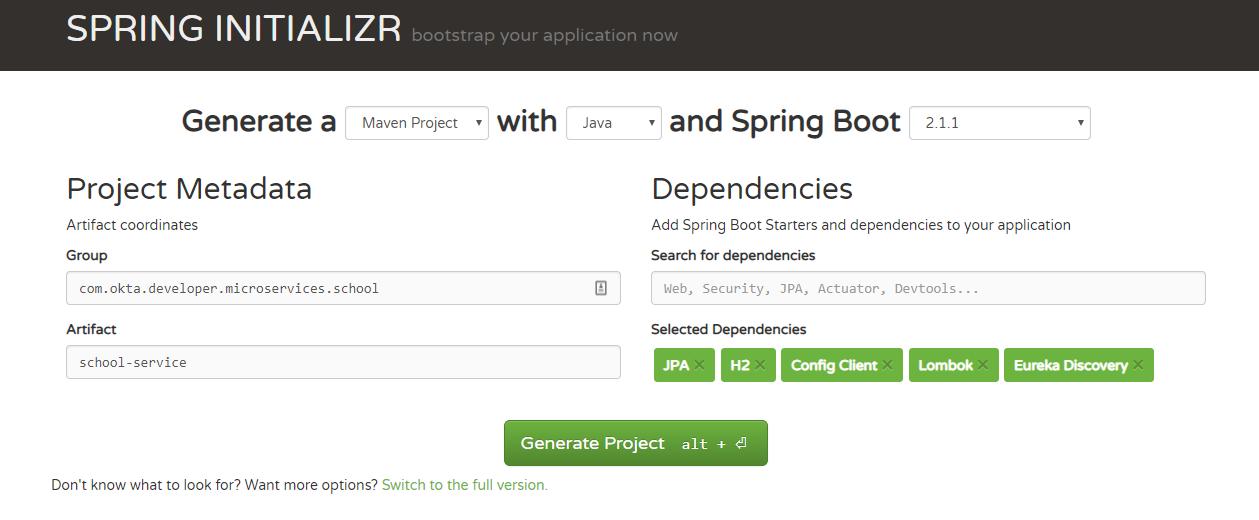
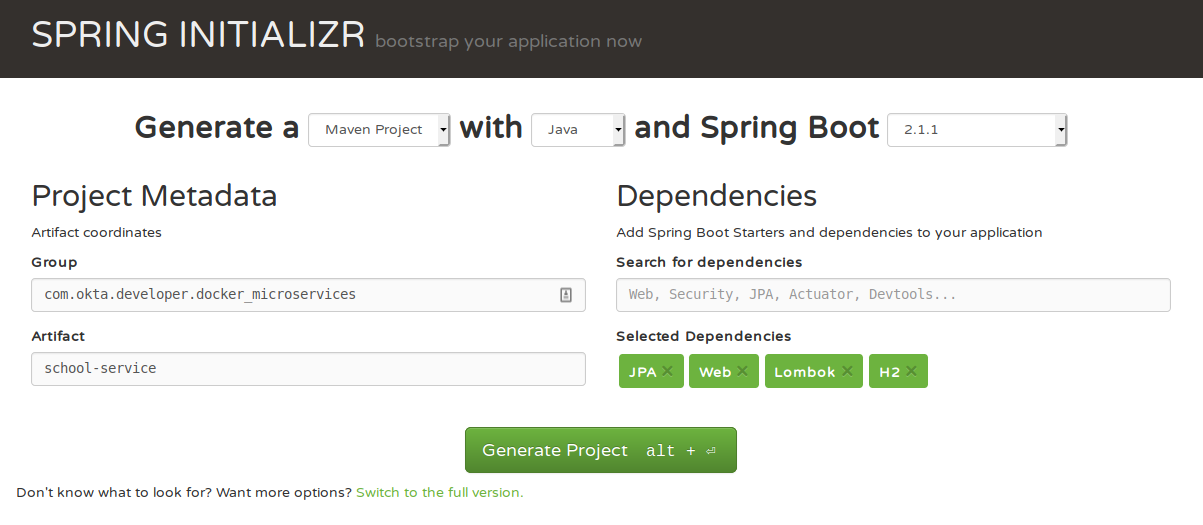
Discovery server description

diff --git a/content/blog/build-spring-microservices-with-docker.md b/content/blog/build-spring-microservices-with-docker.md
@@ -37,24 +37,19 @@ Nowadays, after the hype, it is a common sense you should [avoid Microservice ar
 
 ## The tutorial
 
-The tutorial of this article is a little bit different then previous one. The article does not starts with an empty folder, but with two projects: one service (_school-service_) provides persistent layer and business logic. The other project (_school-ui_) provides the graphical user interface. Both naturally connects with minor configuration.
+This tutorial starts with two projects: one service (_school-service_) provides persistent layer and business logic. The other project (_school-ui_) provides the graphical user interface. Both naturally connects with minor configuration.
 
-After credentials, discovery and configuration services will be presented and discussed. Both 
-services are an essential part for any heavily distributed architecture. To prove our point, we will integrate it with Oauth2 and use the configuration project to set the Oauth2 keys.
+After initial setup, discovery and configuration services will be presented and discussed. Both services are an essential part for any heavily distributed architecture. To prove our point, we will integrate it with Oauth2 and use the configuration project to set the Oauth2 keys.
 
 Finally, each project will be transformed into a Docker image. Docker compose will be used to simulate a _container orchestrator_ as every container will be managed by compose with an internal network between the services.
 
 Lastly, Spring profiles will be introduced to properly change configuration based on the environment currently assigned. That way, we will have two Oauth2 environments: one for development, and other for production.
 
-Less words, more code! Clone the tutorial's **repository** and go to the branch `startup`.
+Less words, more code! Clone the tutorial's **repository** and go to the branch `start`.
 
 ```bash
-> git clone -b startup XXXX 
+> git clone -b start XXXX 
 ```
-
-The project has the following file structure:
-
-**PUT HERE THE FOLDER STRUCTURE**
 
 The root `pom.xml` file is not a requirement. It is here to help to manage multiple projects at once. Let's look inside:
 
@@ -62,45 +57,119 @@ The root `pom.xml` file is not a requirement. It is here to help to manage multi
 <?xml version="1.0" encoding="UTF-8"?>
 <project xmlns="http://maven.apache.org/POM/4.0.0" xmlns:xsi="http://www.w3.org/2001/XMLSchema-instance"
 	xsi:schemaLocation="http://maven.apache.org/POM/4.0.0 http://maven.apache.org/xsd/maven-4.0.0.xsd">
-    <modelVersion>4.0.0</modelVersion>
-
-    <groupId>com.okta.dockermicroservices</groupId>
-    <artifactId>parent-pom</artifactId>
-    <version>0.0.1-SNAPSHOT</version>
-    <packaging>pom</packaging>
-    name>parent-project</name>
-    <modules>
-        <module>school-service</module>
-        <module>school-ui</module>	
-    </modules>
+	<modelVersion>4.0.0</modelVersion>
+	<groupId>com.okta.developer.docker_microservices</groupId>
+	<artifactId>parent-pom</artifactId>
+	<version>0.0.1-SNAPSHOT</version>
+	<packaging>pom</packaging>
+	<name>parent-project</name>
+	<modules>
+		<module>school-service</module>
+		<module>school-ui</module>	
+	</modules>
 </project>
+
 ```
 
-It is called _Aggregate Project_ (CONFERIR) and is useful to apply the same command to all declared modules. The modules does not need to use the root module as parent.
+It is called _Aggregate Project_ and is useful to apply the same command to all declared modules. The modules does not need to use the root module as parent.
+
+Next, check the two modules available:
 
 ## School-Service
 
-`School-Service` is a Spring boot project that acts as the persistence layer and business rules of the project. In a more complex scenario, it would have more services like this. The project was created using the always excelent [_Spring Initialzr_](https://start.spring.io/) with the following configuration:
+`School-Service` is a Spring boot project that acts as the project's persistence layer and business rules. In a more complex scenario, it would have more services like this. The project was created using the always excelent [_Spring Initialzr_](https://start.spring.io/) with the following configuration:
 <img src="/img/blog/build-spring-microservices-with-docker/initializr-service.png" alt="School Service" width="800" class="center-image">
 
-Note that we already added `Config Client` and `Eureka Discovery` as they will be used in the next steps.
+You can get more details about this project on (**Ref to Spring boot POSTGRESQL post!**), if you need more details about how it works. Briefly, it has the entities `TeachingClass`, `Course`, `Student` and uses `TeachingClassServiceDB` and `TeachingClassController` to expose some data throught a REST API. To test it, run the command bellow:
 
-This project is similar to what was presented in (COLOCAR O TUTORIAL SOBRE POSTGRESQL AQUI!). If you need more details about how it works. Briefly, it has the entities `Class`, `Course`, `Student` and
+```bash
+./mvnw clean spring-boot:run
+```
+The application will start on port `8081` (as defined in file `school-service/src/main/resources/application.properties`) and you should be able browse to http://localhost:8081 and see the returned data.
+
+```bash
+> curl http://localhost:8081
+[{"classId":13,"teacherName":"Profesor Jirafales","teacherId":1,"courseName":"Mathematics","courseId":3,"numberOfStudents":2,"year":1988},{"classId":14,"teacherName":"Profesor Jirafales","teacherId":1,"courseName":"Spanish","courseId":4,"numberOfStudents":2,"year":1988},{"classId":15,"teacherName":"Professor X","teacherId":2,"courseName":"Dealing with unknown","courseId":5,"numberOfStudents":2,"year":1995},{"classId":16,"teacherName":"Professor X","teacherId":2,"courseName":"Dealing with unknown","courseId":5,"numberOfStudents":1,"year":1996}]
+```
 
 
 ## School-ui
 
-The school UI is, as the name says, the user interface that uses School Service as the Business service of the application. It has a single web page that lists the classes available on the database. To do this, it connects with the _school-service_ 
+The school UI is, as the name says, the user interface that uses School Service as the Business service of the application. It was created using, again, Spring Initializr with the following configurations:
+
+* Group - com.okta.developer.docker_microservices
+* Artifact - school-ui
+* Dependencies - Web,  Hateoas, Thymeleaf, Lombok
+
+The UI is a single web page that lists the classes available on the database. To get the information, it connects with the _school-service_ through a configuration in file `school-ui/src/main/resources/applicaction.properties` 
+
+```properties
+service.host=localhost:8081
+```
+
+The class `com.okta.developer.microservicedockerspring.ui.controller.SchoolController` has all the logic to query the service:
+
+```java
+package com.okta.developer.microservicedockerspring.ui.controller;
+
+
+import com.okta.developer.microservicedockerspring.ui.dto.TeachingClassDto;
+import org.springframework.beans.factory.annotation.*;
+import org.springframework.core.ParameterizedTypeReference;
+import org.springframework.http.*;
+import org.springframework.stereotype.Controller;
+import org.springframework.web.bind.annotation.*;
+import org.springframework.web.client.RestTemplate;
+import org.springframework.web.servlet.ModelAndView;
+import java.util.List;
+
+@Controller
+@RequestMapping("/")
+public class SchoolController {
+    private final RestTemplate restTemplate;
+    private final String serviceHost;
+
+    @Autowired
+    public SchoolController(RestTemplate restTemplate, @Value("${service.host}") String serviceHost) {
+        this.restTemplate = restTemplate;
+        this.serviceHost = serviceHost;
+    }
+    @RequestMapping("")
+    public ModelAndView index(){
+        return new ModelAndView("index");
+    }
+    @GetMapping("/classes")
+    public ResponseEntity<List<TeachingClassDto>> listClasses(){
+
+        return restTemplate
+                .exchange("http://"+ serviceHost +"/class", HttpMethod.GET, null,
+                        new ParameterizedTypeReference<List<TeachingClassDto>>() {});
+    }
+}
+```
+
+As you can see, there are some hard-coded location for the service. You can change the property setting an environment variable like this `-Dservice.host=localhost:9090`. Still, it has to be manually defined. How about having many instances of _school-service_ application? Impossible at the current stage.
+
+With _school-service_ turned on, just start this one and test on a browser (http://localhost:8080):
+
+```bash
+./mvnw clean spring-boot:run
+```
+
+<img src="/img/blog/build-spring-microservices-with-docker/school-ui.png" alt="School Service" width="400" class="center-image">
+
 
 ## Discovery Server
 
-Now we have a working application that uses two services to provide the information to end-user. What is wrong with it? In modern applications, it is not common to a developer (or operations) know in what machine and what port an application is deployed. In fact, the deployment is so automated no one _cares_ about server names and physical location (unless you work inside a datacenter. In that case I really hope you care!).
+Now we have a working application that uses two services to provide the information to end-user. What is wrong with it? In modern applications, it is not common to a developer (or operations) know in what machine and what port an application is deployed. In fact, the deployment should be so automated no one _cares_ about server names and physical location (unless you work inside a datacenter. If you do, I really hope you care!).
 
 Nonetheless, it is important to have a tool that help the services to discover its parts. There are many solutions available and for this tutorial we are going to use _Eureka_ from Netflix as it has a very good Spring support.
 
 Go back to [Spring Initialzr](http://start.spring.com) and create a new project as follows:
 
-<img src="/img/blog/build-spring-microservices-with-docker/initializr-discovery.png" alt="Discovery Service" width="800" class="center-image">
+* Group: com.okta.developer.docker_microservices
+* Artifact: discovery
+* Dependencies: Web, Eureka Server
 
 > Note: if you are using JDK 10 or above, you probably will need to add the dependencies bellow. These libraries are part of Java EE and were embeded into JDK until version 10.
 
@@ -127,11 +196,10 @@ Go back to [Spring Initialzr](http://start.spring.com) and create a new project 
 </dependency>
 ```
 
-
-Now, edit the main class to add `@EnableEurekaServer` annotation:
+Now, edit the main class () to add `@EnableEurekaServer` annotation:
 
 ```java
-package net.dovale.okta.docker_microservices.discovery;
+package com.okta.developer.dockermicroservices.discovery;
 
 import org.springframework.boot.SpringApplication;
 import org.springframework.boot.autoconfigure.SpringBootApplication;
@@ -146,8 +214,6 @@ public class DiscoveryApplication {
 }
 ```
 
-
-
 Finally, we just need to update `application.properties` file:
 
 ```properties
@@ -158,6 +224,7 @@ eureka.client.fetch-registry=false
 ```
 
 These are the meaning of each key:
+
 * spring.application.name - the name of the application, also use to discovery service _discover_ a service. You'll see that every other application should have an application name to be found.
 * server.port - the port the server is running. `8761` is the default por for Eureka server.
 * eureka.client.register-with-eureka - Tells spring to not register itself into the discovery service
@@ -174,7 +241,7 @@ The screen above shows the Eureka server ready to register new services. Now, it
 
 ### Changes on services
 
-First, it is important to add the required dependencies. Add the following to both pom.xml (service, and ui projects):
+First, it is important to add the required dependencies. Add the following to both pom.xml (_school-service_, and _school-ui_ projects):
 
 ```xml
 <dependency>
@@ -207,23 +274,20 @@ eureka.client.service-url.default-zone=${EUREKA_SERVER:http://localhost:8761/eur
 spring.application.name=school-service
 ```
 
-Change _school-service_ to _school-ui_ in the another project, ok? Notice we have a new kind of parameter on the first line: `{EUREKA_SERVER:http://localhost:8761/eureka}`. It means "if environment variable EUREKA_SERVER exists, use its value, if not, take here a default value". It will be useful on future steps ;).
+Don't forget to change _school-service_ to _school-ui_ in the _school-ui_ project. Notice we have a new kind of parameter on the first line: `{EUREKA_SERVER:http://localhost:8761/eureka}`. It means "if environment variable EUREKA_SERVER exists, use its value, if not, take here a default value". It will be useful on future steps ;)
 
-You know what? Both applications are ready to register themselves into the discovery service. You don't need to do anything more. But, all this for what? Our primary objective is that _school-ui_ project does not need to know _where_ _school-service_ is. As such, wee need to change a few things on _school-ui_, and only.
+You know what? Both applications are ready to register themselves into the discovery service. You don't need to do anything more. Our primary objective is that _school-ui_ project does not need to know _where_ _school-service_ is. As such, wee need to change a few things on _school-ui_, and only.
 
 `SchoolController.java`
 ```java
-package net.dovale.okta.docker_microservices.web.controller;
+package com.okta.developer.microservicedockerspring.ui.controller;
 
-import net.dovale.okta.docker_microservices.web.dto.ClassDTO;
+import com.okta.developer.microservicedockerspring.ui.dto.TeachingClassDto;
 import org.springframework.beans.factory.annotation.Autowired;
-import org.springframework.beans.factory.annotation.Value;
 import org.springframework.core.ParameterizedTypeReference;
-import org.springframework.http.HttpMethod;
-import org.springframework.http.ResponseEntity;
+import org.springframework.http.*;
 import org.springframework.stereotype.Controller;
-import org.springframework.web.bind.annotation.GetMapping;
-import org.springframework.web.bind.annotation.RequestMapping;
+import org.springframework.web.bind.annotation.*;
 import org.springframework.web.client.RestTemplate;
 import org.springframework.web.servlet.ModelAndView;
 import java.util.List;
@@ -231,38 +295,67 @@ import java.util.List;
 @Controller
 @RequestMapping("/")
 public class SchoolController {
-    @Autowired private final RestTemplate restTemplate;
+    private final RestTemplate restTemplate;
+    @Autowired
+    public SchoolController(RestTemplate restTemplate) {
+        this.restTemplate = restTemplate;
+    }
     @RequestMapping("")
     public ModelAndView index(){
         return new ModelAndView("index");
     }
     @GetMapping("/classes")
-    public ResponseEntity<List<ClassDTO>> listClasses(){
+    public ResponseEntity<List<TeachingClassDto>> listClasses(){
 
         return restTemplate
                 .exchange("http://school-service/class", HttpMethod.GET, null,
-                        new ParameterizedTypeReference<List<ClassDTO>>() {});
+                        new ParameterizedTypeReference<List<TeachingClassDto>>() {});
     }
 }
+
 ```
 
-Before Eureka, we had an configuration point-out where _school-service_ where. Now, we change our calls to exactly the name used by the other service. No ports, no hostname. The service you need is somewhere and you don't need to know. 
+Before Eureka, we had an configuration pointing-out where _school-service_ was. Now, we change our calls to exactly the name used by the other service. No ports, no hostname. The service you need is somewhere and you don't need to know. 
 
-_School-service_ may have multiple instances of and it would be a good idea to load balance the calls between the services. Thankfully, Spring has a simple solution: on `RestTemplate` bean creation, add `@LoadBalanced` annotation as follows. Spring will manage multiple instance calls each time you ask something to the server.
+_School-service_ may have multiple instances of and it would be a good idea to load balance the calls between the instances. Thankfully, Spring has a simple solution: on `RestTemplate` bean creation, add `@LoadBalanced` annotation as follows. Spring will manage multiple instance calls each time you ask something to the server.
 
 ```java
-@Bean
-@LoadBalanced
-public RestTemplate restTemplate() {
-    return new RestTemplate();
+package com.okta.developer.microservicedockerspring.ui;
+
+import org.springframework.boot.SpringApplication;
+import org.springframework.boot.autoconfigure.SpringBootApplication;
+import org.springframework.cloud.client.loadbalancer.LoadBalanced;
+import org.springframework.context.annotation.Bean;
+import org.springframework.web.client.RestTemplate;
+import org.springframework.web.servlet.config.annotation.*;
+
+@SpringBootApplication
+public class UIWebApplication implements WebMvcConfigurer {
+	public static void main(String[] args) {
+		SpringApplication.run(UIWebApplication.class, args);
+	}
+	@Bean
+	@LoadBalanced
+	public RestTemplate restTemplate() {
+		return new RestTemplate();
+	}
+	@Override
+	public void addResourceHandlers(ResourceHandlerRegistry registry) {
+		if(!registry.hasMappingForPattern("/static/**")) {
+			registry
+					.addResourceHandler("/static/**")
+					.addResourceLocations("classpath:/static/", "classpath:/static/js/");
+		}
+	}
 }
+
 ```
 
-Now, starts both _school-service_ and _school-ui_ (and keep Discovery service up) with the command `./mvnw spring-boot:run`. Have a quick lood on Discovery service again:
+Now, starts both _school-service_ and _school-ui_ (and keep Discovery service up) with the command `./mvnw clean spring-boot:run`. Have a quick lood on Discovery service again:
 
 <img src="/img/blog/build-spring-microservices-with-docker/eureka-filled.png" alt="Filled Eureka Service" width="800" class="center-image">
 
-Now your services are sharing info with the Discovery server. You can test the application again and see that it work as always.
+Now your services are sharing info with the Discovery server. You can test the application again and see that it work as always. Just type on your browser http://localhost:8080 to check it out.
 
 > You can check the code result from now on branch `discovery-server`
 
@@ -317,7 +410,7 @@ And fill the next form with the following values:
 
 <img src="/img/blog/build-spring-microservices-with-docker/okta-new-web-application-step2.png" alt="New web application, Step 2" width="800" class="center-image">
 
-The page will return you an application ID and an secret key. Keep then safe and create a filled called `school-ui.properties` on the root configuration folder with the following content. Do not forget to fill the variables values:
+The page will return you an application ID and an secret key. Keep then safe and create a file called `school-ui.properties` on the root configuration folder with the following content. Do not forget to fill the variables values:
 
 ```properties
 okta.oauth2.issuer=https://${DOMAIN}/oauth2/default
